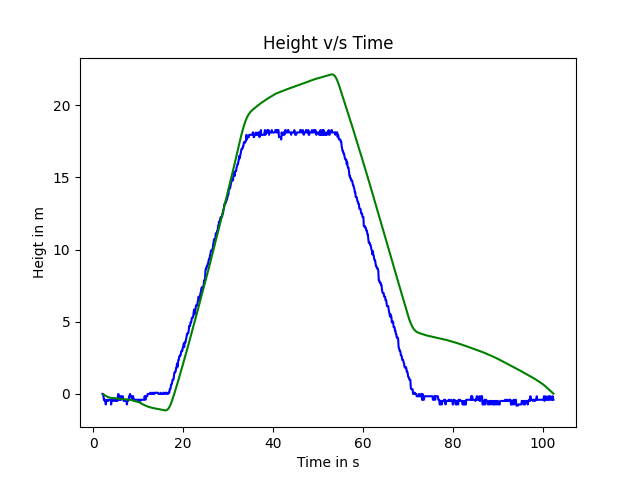
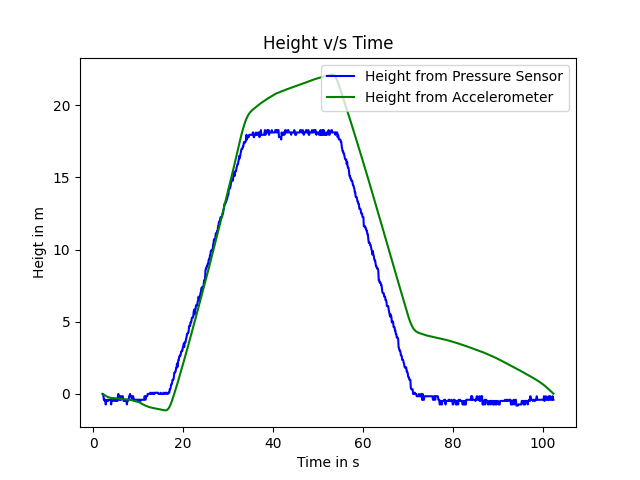
updated_plots

Changed region(s): [[0.5, 0.125, 0.875, 0.25]]

diff --git a/task_3/task_3.py b/task_3/task_3.py
@@ -112,8 +112,8 @@ plt.plot(time[2:]/1000, accel_height , color='green')
 plt.xlabel('Time in s')
 plt.ylabel('Heigt in m')
 plt.title('Height v/s Time')
+plt.legend(["Height from Pressure Sensor" , "Height from Accelerometer"] , loc="upper right")
 plt.savefig('HeightvsTime')
-plt.legend(["Height from Pressure Sensor" , "Height from Accelerometer"])
 
 
 
